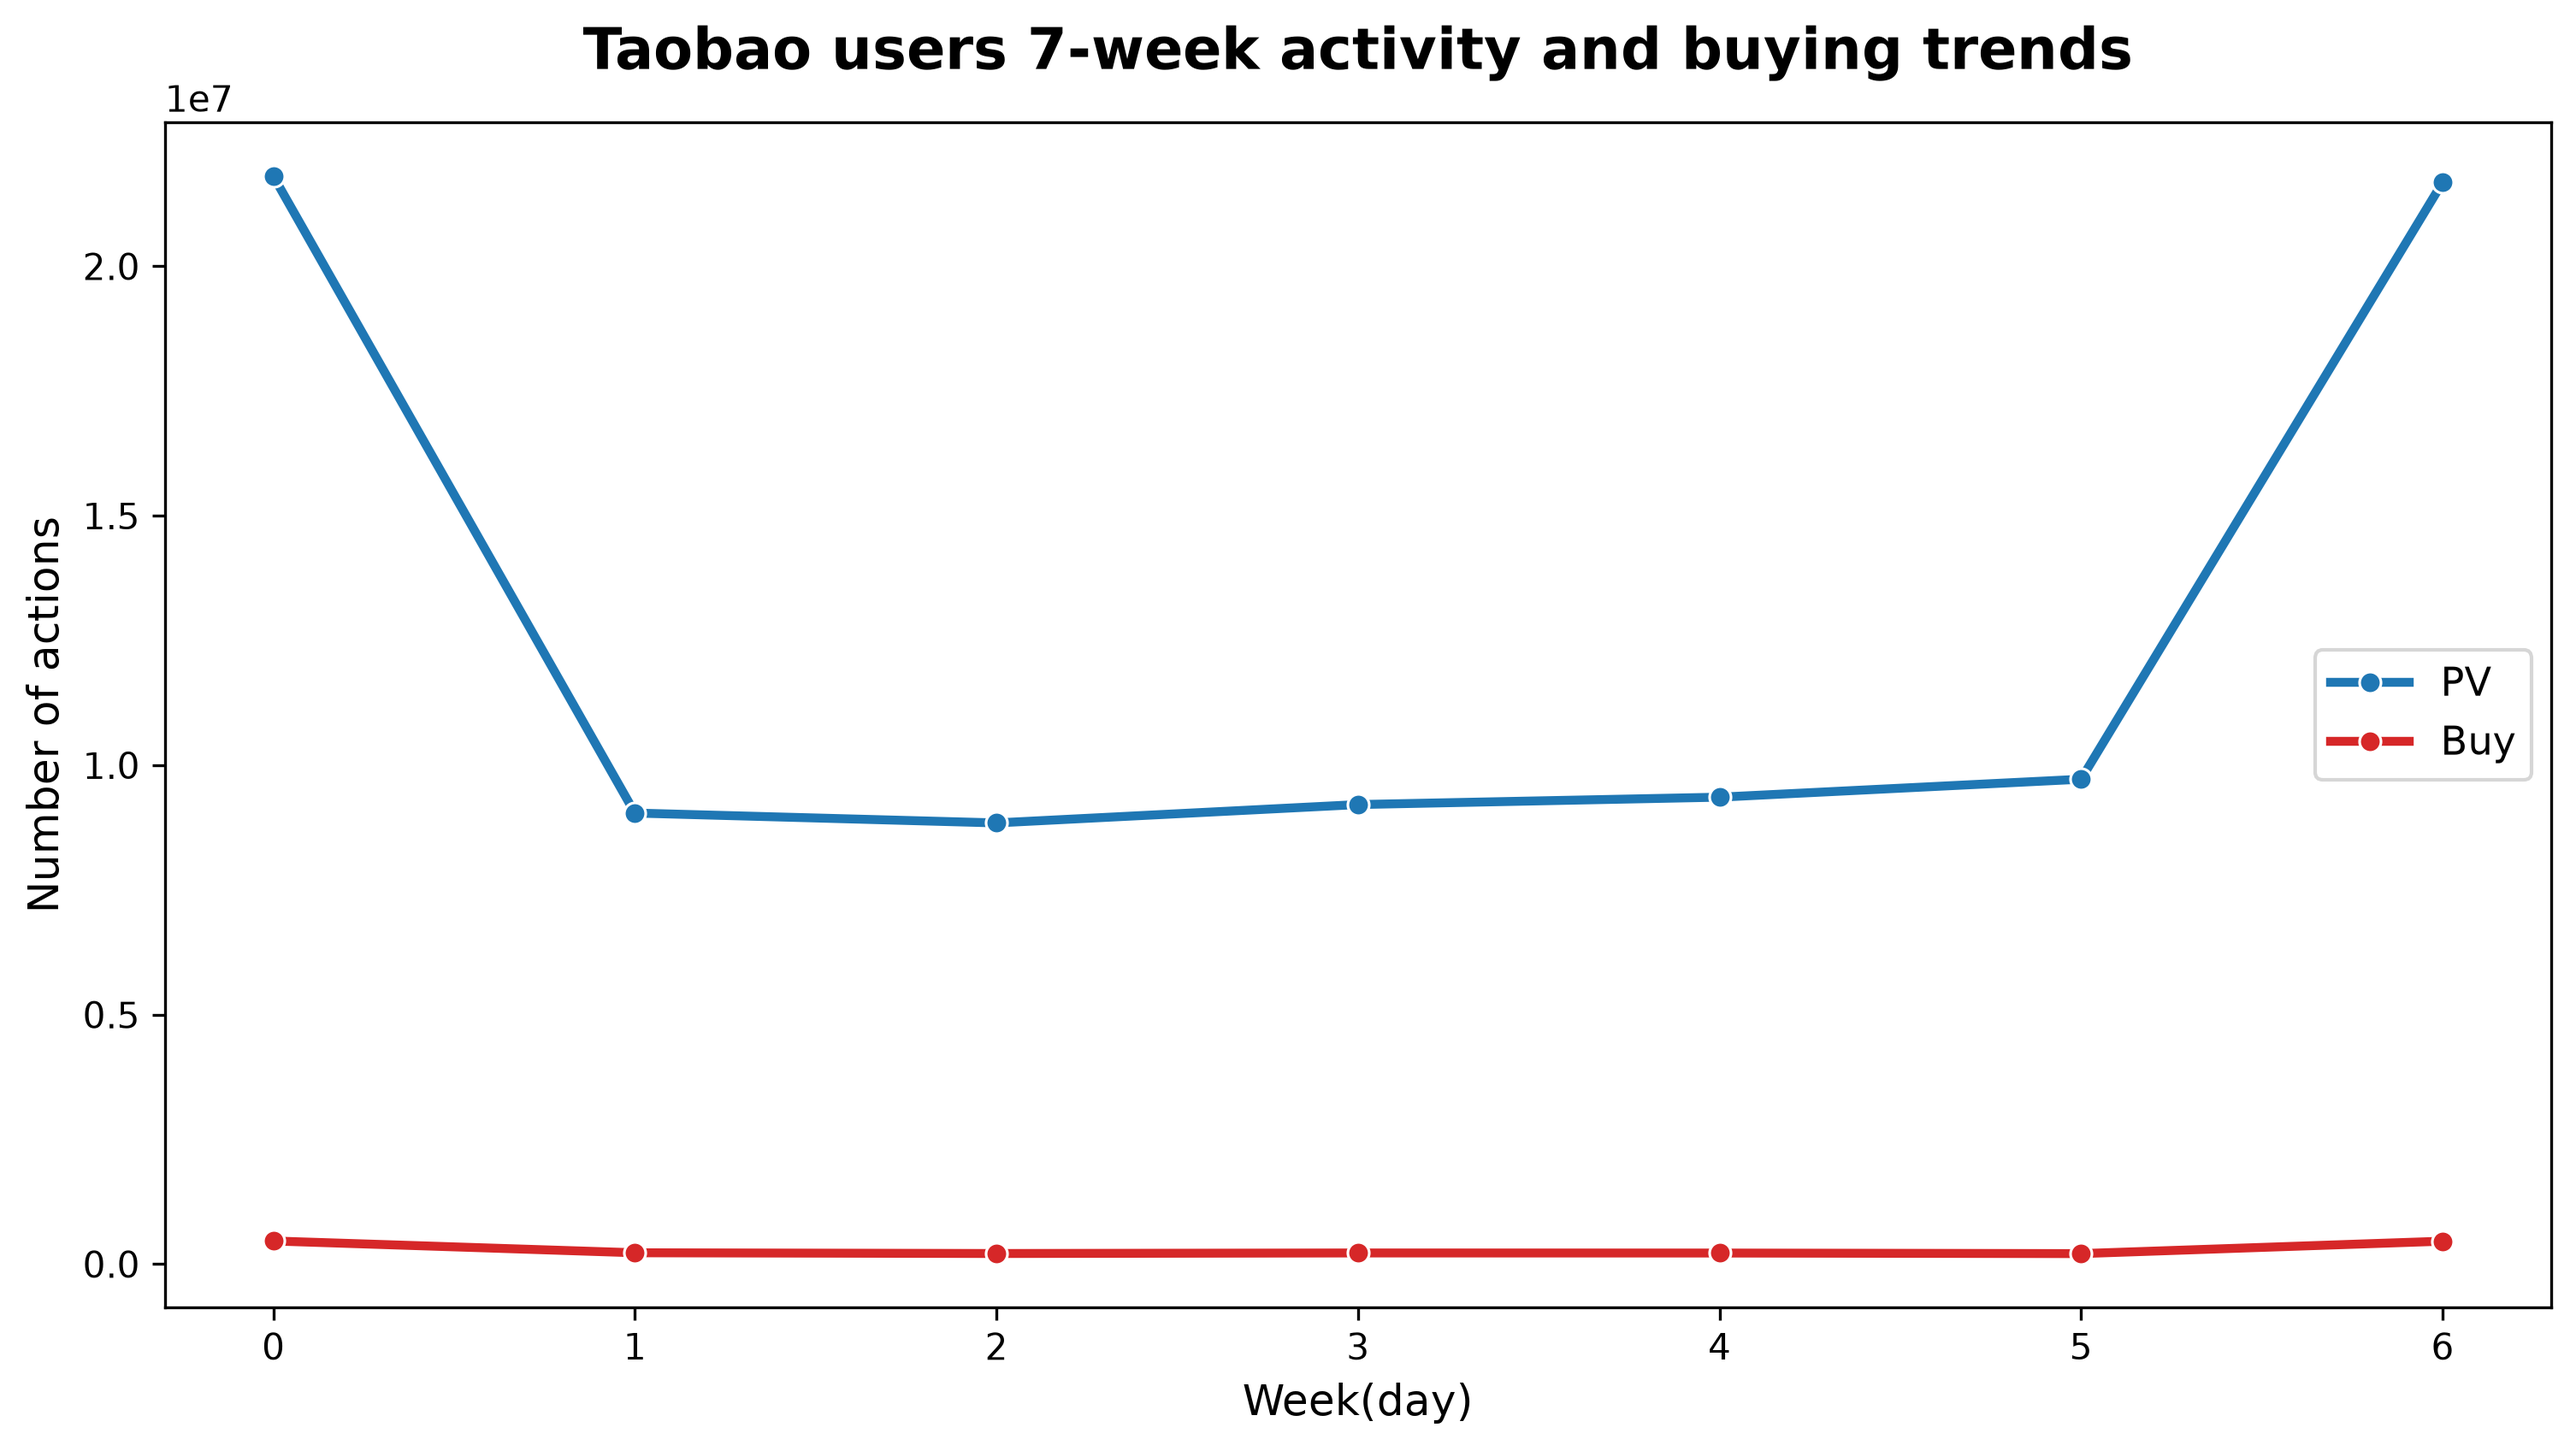
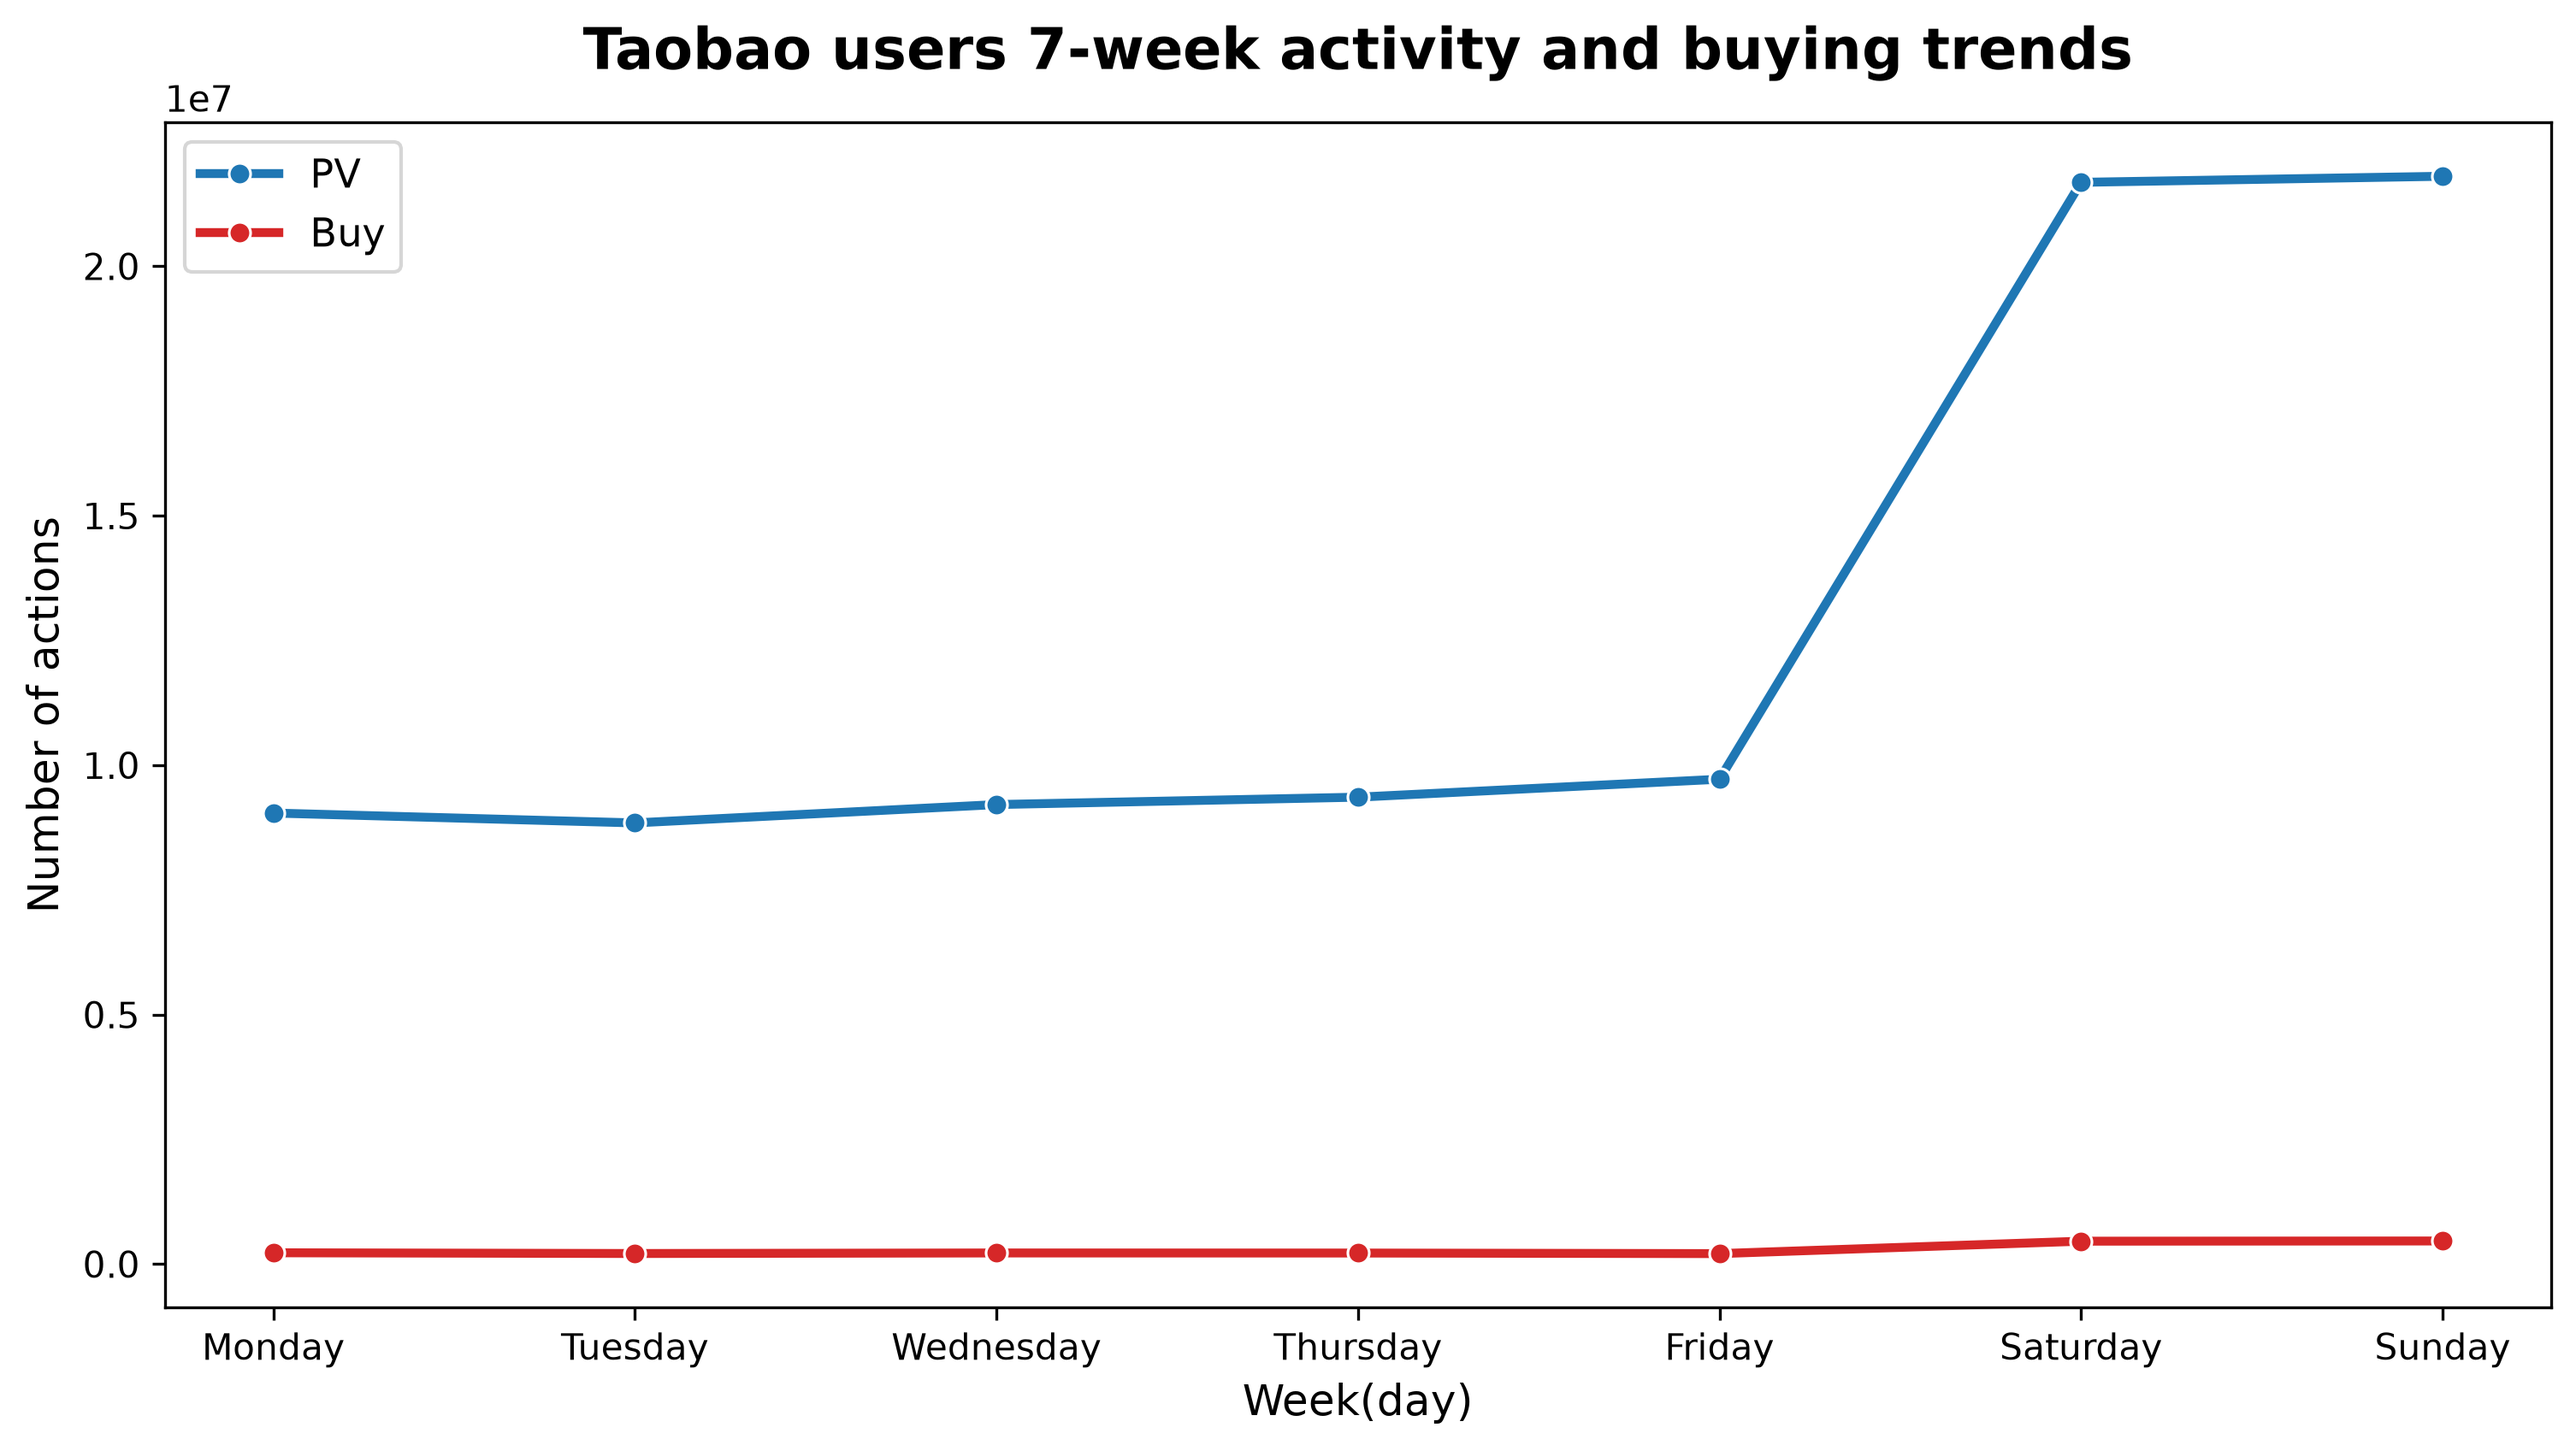
优化行为数据表创建逻辑，增加星期名称映射并修正排序方式。 星期打印出来的表格还有一点小问题，明天修改重跑一下

diff --git a/analyse.py b/analyse.py
@@ -212,14 +212,26 @@ if os.path.exists(db_path):
         cursor.execute("""
             CREATE TABLE behavior_weekly AS
             SELECT
-                strftime('%w', datetime) AS week,
+                CASE CAST(strftime('%w', datetime) AS INTEGER) 
+                    WHEN 0 THEN 'Sunday'
+                    WHEN 1 THEN 'Monday'
+                    WHEN 2 THEN 'Tuesday'
+                    WHEN 3 THEN 'Wednesday'
+                    WHEN 4 THEN 'Thursday'
+                    WHEN 5 THEN 'Friday'
+                    WHEN 6 THEN 'Saturday'
+                END AS week,
                 SUM(CASE WHEN behavior_type = 'pv' THEN 1 ELSE 0 END) AS pv_week,
                 SUM(CASE WHEN behavior_type = 'fav' THEN 1 ELSE 0 END) AS fav_week,
                 SUM(CASE WHEN behavior_type = 'cart' THEN 1 ELSE 0 END) AS cart_week,
                 SUM(CASE WHEN behavior_type = 'buy' THEN 1 ELSE 0 END) AS buy_week
             FROM user_behavior
-            GROUP BY week
-            ORDER BY week
+            GROUP BY CAST(strftime('%w', datetime) AS INTEGER)
+            ORDER BY 
+                CASE CAST(strftime('%w', datetime) AS INTEGER)
+                    WHEN 0 THEN 7
+                    ELSE CAST(strftime('%w', datetime) AS INTEGER)
+                END
         """)
         conn.commit()
 
